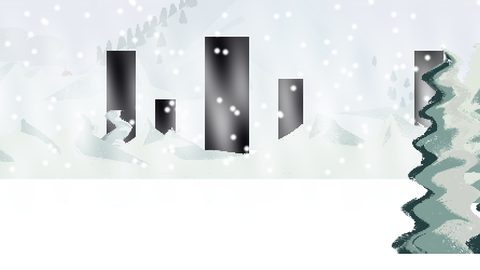
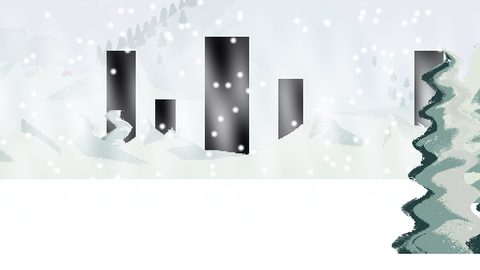
Labs page: re-cut the 17 lab tiles, shot without multisampling (r549)
anim, shadow and pines had changed since their tiles (palms, the sun in the sky, the pines).
tiles.py now loads every lab with &noaa=1: headless Chrome on the NVIDIA GPU, multisampled, drops the
sky or a layer about a still in three (r508), so a tile could have shipped missing one.
tools/r549-tiles: sheet.py (before | after per tile) and page.py (the labs page at desktop and phone width).

Persona: Mira Ralax
Session: mira-fedora-parallax-314

diff --git a/tools/r549-tiles/page.py b/tools/r549-tiles/page.py
@@ -1,0 +1,32 @@
+"""r549: the labs page (core/browser-test/webapp/index.html) served as is, its tiles at desktop and phone width.
+  python3 tools/r549-tiles/page.py OUT_DIR       writes OUT_DIR/desktop.png and OUT_DIR/phone.png
+"""
+import functools
+import http.server
+import os
+import sys
+import threading
+
+from playwright.sync_api import sync_playwright
+
+sys.path.insert(0, os.path.dirname(os.path.dirname(os.path.abspath(__file__))))  # tools/: browser.py
+from browser import launch
+
+out = sys.argv[1]
+root = os.path.join(os.path.dirname(os.path.abspath(__file__)), "../../core/browser-test/webapp")
+handler = functools.partial(http.server.SimpleHTTPRequestHandler, directory=root)
+server = http.server.ThreadingHTTPServer(("127.0.0.1", 0), handler)
+threading.Thread(target=server.serve_forever, daemon=True).start()
+url = f"http://127.0.0.1:{server.server_address[1]}/index.html"
+chrome = os.environ.get("CHROME", "/usr/bin/google-chrome")
+with sync_playwright() as p:
+    browser = launch(p, chrome)
+    for name, width in (("desktop", 1580), ("phone", 390)):
+        page = browser.new_page(viewport={"width": width, "height": 800})
+        page.goto(url)
+        page.wait_for_function("[...document.images].every(i => i.complete)")
+        broken = page.evaluate("[...document.images].filter(i => !i.naturalWidth).map(i => i.src)")
+        page.screenshot(path=f"{out}/{name}.png", full_page=True)
+        print(name, "broken images:", broken)
+    browser.close()
+server.shutdown()

diff --git a/tools/r549-tiles/sheet.py b/tools/r549-tiles/sheet.py
@@ -1,0 +1,26 @@
+"""r549: the labs page's tiles before and after a re-cut, side by side, one row a tile, its mean change in the label.
+  python3 tools/r549-tiles/sheet.py BEFORE_DIR AFTER_DIR OUT.png
+"""
+import sys
+from pathlib import Path
+
+import numpy as np
+from PIL import Image, ImageDraw
+
+before, after, out = Path(sys.argv[1]), Path(sys.argv[2]), sys.argv[3]
+names = sorted(p.name for p in after.glob("*.jpg"))
+W, H, PAD = 240, 135, 20
+COLS = 2
+rows = (len(names) + COLS - 1) // COLS
+sheet = Image.new("RGB", (COLS * (2 * W + 30), rows * (H + PAD)), "white")
+draw = ImageDraw.Draw(sheet)
+for i, name in enumerate(names):
+    x, y = (i % COLS) * (2 * W + 30), (i // COLS) * (H + PAD)
+    a = Image.open(after / name).convert("RGB")
+    b = Image.open(before / name).convert("RGB") if (before / name).exists() else Image.new("RGB", a.size, "grey")
+    mean = np.abs(np.asarray(a, np.int16) - np.asarray(b, np.int16)).mean()
+    sheet.paste(b.resize((W, H)), (x, y + PAD))
+    sheet.paste(a.resize((W, H)), (x + W + 4, y + PAD))
+    draw.text((x + 2, y + 4), f"{name}: before | after, mean change {mean:.1f}/255", fill="black")
+sheet.save(out)
+print(out)

diff --git a/tools/r418-lab-tiles/tiles.py b/tools/r418-lab-tiles/tiles.py
@@ -38,7 +38,8 @@ with sync_playwright() as p:
     browser = launch(p, chrome)
     for name, path, ready, cols, rows, *which in LABS:
         page = browser.new_page(viewport={"width": 1580, "height": 710})
-        page.goto(f"{base}/{path}{'&' if '?' in path else '?'}clip=1")
+        # &noaa=1: multisampled, headless Chrome on the NVIDIA GPU drops the sky or a layer (r508).
+        page.goto(f"{base}/{path}{'&' if '?' in path else '?'}clip=1&noaa=1")
         page.wait_for_function(f"window.{ready} === true", timeout=90000)
         page.evaluate(f"window.{ready[:-5]}Act && window.{ready[:-5]}Act(6)")
         page.add_style_tag(content=".lab-labels { display: none; }")  # the panels' titles: the tile names the lab
